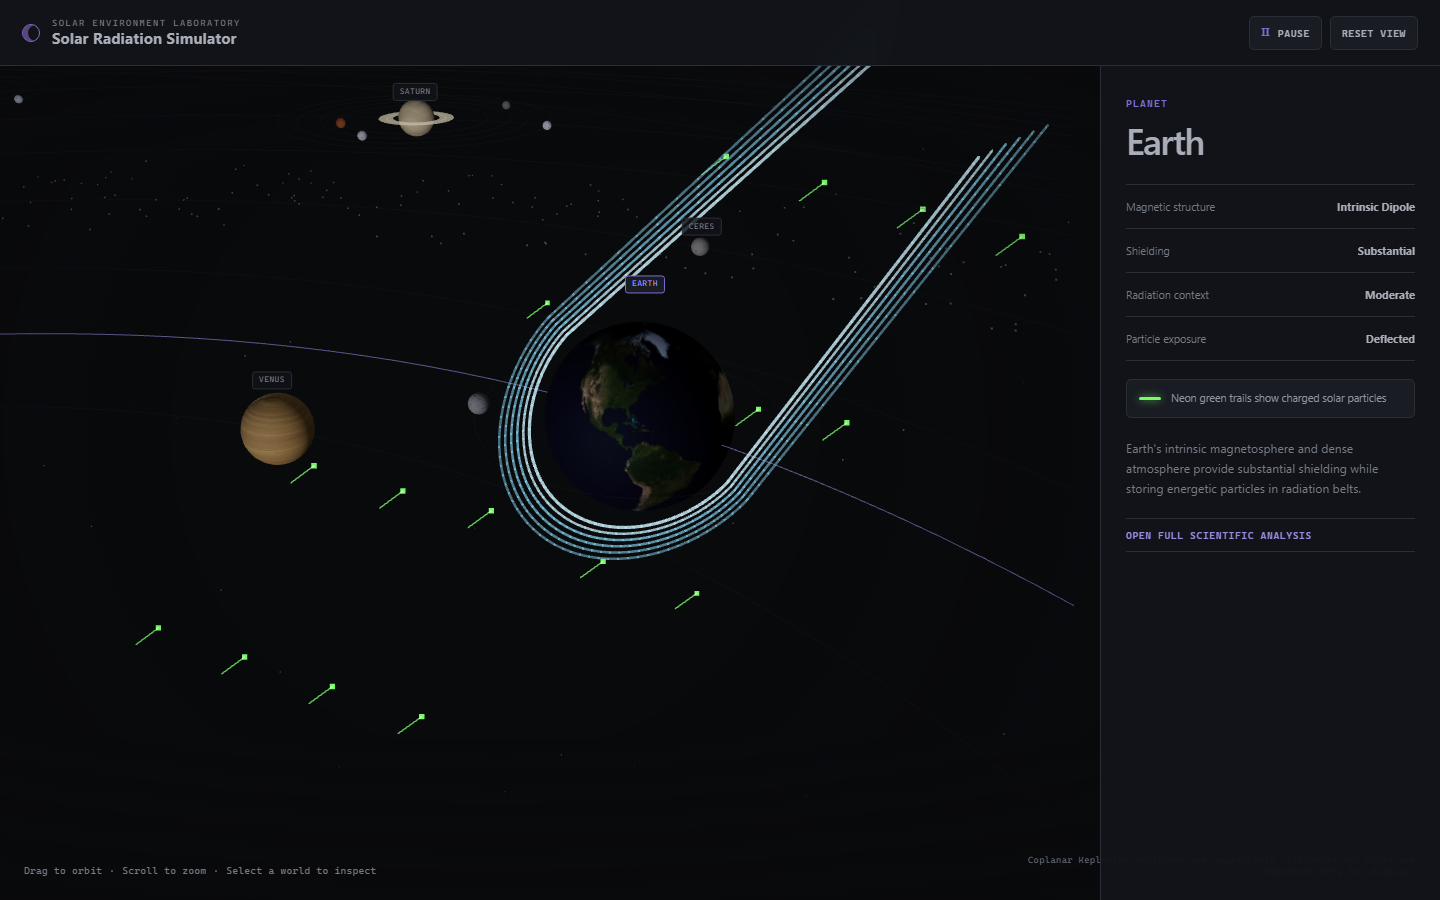
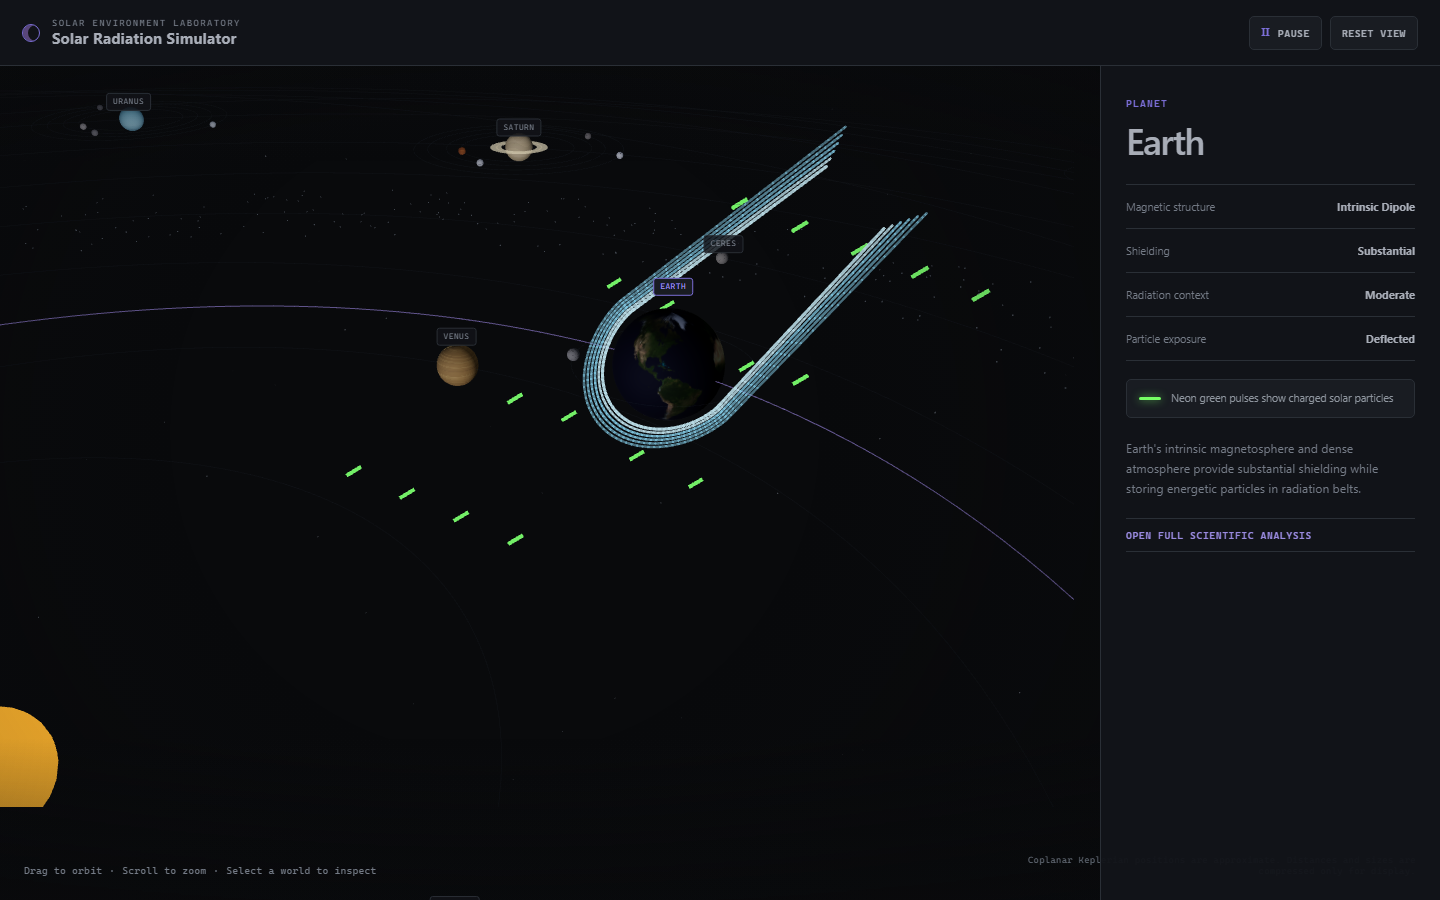
fix: replace particle trails with energy pulses

diff --git a/frontend/src/components/MagneticField/MagneticFieldOverlay.jsx b/frontend/src/components/MagneticField/MagneticFieldOverlay.jsx
@@ -1,7 +1,7 @@
 import { Line } from '@react-three/drei'
 import { useFrame } from '@react-three/fiber'
 import { memo, useMemo, useRef } from 'react'
-import { AdditiveBlending, BufferAttribute, BufferGeometry, Vector3 } from 'three'
+import { AdditiveBlending, Object3D, Vector3 } from 'three'
 
 const FIELD_COLOR = '#49b9ff'
 const FIELD_HIGHLIGHT = '#8bdcff'
@@ -118,16 +118,8 @@ function ParentPlasmaField({ radius, profile, bodyId }) {
 }
 
 function SolarWindFlow({ radius, family }) {
-  const pointGeometry = useMemo(() => {
-    const result = new BufferGeometry()
-    result.setAttribute('position', new BufferAttribute(new Float32Array(PARTICLE_COUNT * 3), 3))
-    return result
-  }, [])
-  const trailGeometry = useMemo(() => {
-    const result = new BufferGeometry()
-    result.setAttribute('position', new BufferAttribute(new Float32Array(PARTICLE_COUNT * 2 * 3), 3))
-    return result
-  }, [])
+  const particleMeshRef = useRef()
+  const particleTransform = useMemo(() => new Object3D(), [])
   const particles = useMemo(() => Array.from({ length: PARTICLE_COUNT }, (_, index) => ({
     phase: (index / PARTICLE_COUNT) * 13,
     y: ((index * 7) % 9 - 4) * radius * 0.48,
@@ -135,8 +127,8 @@ function SolarWindFlow({ radius, family }) {
   })), [radius])
 
   useFrame(({ clock }) => {
-    const positions = pointGeometry.attributes.position.array
-    const trails = trailGeometry.attributes.position.array
+    const particleMesh = particleMeshRef.current
+    if (!particleMesh) return
     const elapsed = clock.getElapsedTime()
     particles.forEach((particle, index) => {
       const x = -radius * 7 + ((particle.phase + elapsed * 1.25) % 13) * radius
@@ -153,29 +145,19 @@ function SolarWindFlow({ radius, family }) {
       } else if (family === 'parent_plasma') {
         y += Math.sin(x / (radius * 13) * Math.PI * 4 + index) * radius * 0.28
       }
-      positions[index * 3] = x
-      positions[index * 3 + 1] = y
-      positions[index * 3 + 2] = z
-      trails[index * 6] = x - radius * 0.38
-      trails[index * 6 + 1] = y
-      trails[index * 6 + 2] = z
-      trails[index * 6 + 3] = x
-      trails[index * 6 + 4] = y
-      trails[index * 6 + 5] = z
+      particleTransform.position.set(x, y, z)
+      particleTransform.scale.set(radius * 0.34, radius * 0.075, radius * 0.075)
+      particleTransform.updateMatrix()
+      particleMesh.setMatrixAt(index, particleTransform.matrix)
     })
-    pointGeometry.attributes.position.needsUpdate = true
-    trailGeometry.attributes.position.needsUpdate = true
+    particleMesh.instanceMatrix.needsUpdate = true
   })
 
   return (
-    <group raycast={() => null}>
-      <lineSegments geometry={trailGeometry}>
-        <lineBasicMaterial color={WIND_COLOR} transparent opacity={0.74} depthWrite={false} toneMapped={false} blending={AdditiveBlending} />
-      </lineSegments>
-      <points geometry={pointGeometry}>
-        <pointsMaterial color={WIND_COLOR} size={radius * 0.2} sizeAttenuation transparent opacity={0.94} depthWrite={false} toneMapped={false} blending={AdditiveBlending} />
-      </points>
-    </group>
+    <instancedMesh ref={particleMeshRef} args={[null, null, PARTICLE_COUNT]} raycast={() => null} frustumCulled={false}>
+      <boxGeometry args={[1, 1, 1]} />
+      <meshBasicMaterial color={WIND_COLOR} transparent opacity={0.9} depthWrite={false} toneMapped={false} blending={AdditiveBlending} />
+    </instancedMesh>
   )
 }
 

diff --git a/frontend/src/App.jsx b/frontend/src/App.jsx
@@ -108,7 +108,7 @@ function SceneInspector({ body }) {
         <div><dt>Radiation context</dt><dd data-hazard={particle?.radiationLevel === 'extreme' ? 'high' : undefined}>{titleCase(particle?.radiationLevel)}</dd></div>
         <div><dt>Particle exposure</dt><dd>{titleCase(particle?.solarWindExposure)}</dd></div>
       </dl>
-      <div className="scene-particle-legend"><i aria-hidden="true" /><span>Neon green trails show charged solar particles</span></div>
+      <div className="scene-particle-legend"><i aria-hidden="true" /><span>Neon green pulses show charged solar particles</span></div>
       <p>{environment?.summary}</p>
       <a href="#light-analysis">Open full scientific analysis</a>
     </aside>

diff --git a/README.md b/README.md
@@ -25,7 +25,7 @@ The Sun is the only light source. The application requires no manual scientific 
 - One slow orbital playback rate with a compact Play/Pause control; internal scientific time remains available without visible clock or speed-selector clutter.
 - NASA Blue Marble imagery for geographically correct Earth, plus reference-guided procedural textures for other bodies; natural colors stay separate from the graphite/violet interface palette.
 - Every supported body has a tailored magnetic silhouette—distinct shell count, tilt, compression, tail length, asymmetry, and strength—while protected body clearance prevents line intersections.
-- Charged solar particles use larger neon-green directional streaks and an explicit viewport legend, visually separating them from stars and asteroid-belt debris.
+- Charged solar particles use uniform neon-green directional pulses and an explicit viewport legend, visually separating them from stars and asteroid-belt debris.
 - Selected moons remain subordinate to their undimmed parent planet, while the expanded graphite analysis interface provides more space between scientific panels.
 - Locally cached scientific catalog with units, source IDs, deliberate nulls, and ASTM E-490 spectrum data.
 - Explainable atmospheric and airless deterministic physics baseline with energy conservation.

diff --git a/docs/MAGNETIC_FIELDS.md b/docs/MAGNETIC_FIELDS.md
@@ -15,7 +15,7 @@ The simulator distinguishes physical interaction families instead of drawing one
 
 The Three.js overlay is rendered only for the selected body. Every supported body has a reviewed visual profile that independently controls shell count, sunward compression, tail length and pinch, vertical extent, tilt, asymmetry, and opacity rather than inheriting one family-wide silhouette. Visible light is not bent by these fields.
 
-Larger neon-green heads and short directional trails represent charged solar-wind particles approaching from the Sun-facing direction. The color, size, motion, and explicit viewport legend keep them visually separate from neutral stars and asteroid-belt debris.
+Uniform neon-green rectangular pulses represent charged solar-wind particles approaching from the Sun-facing direction. They have no separate head or tail; their color, size, motion, and explicit viewport legend keep them visually separate from neutral stars and asteroid-belt debris.
 
 The field sizes are explanatory rather than to scale. Numeric field ranges are shown only when the source catalog supports them. Unknown and negligible cases receive no invented global structure; at most, direct sparse particle flow is shown.
 
